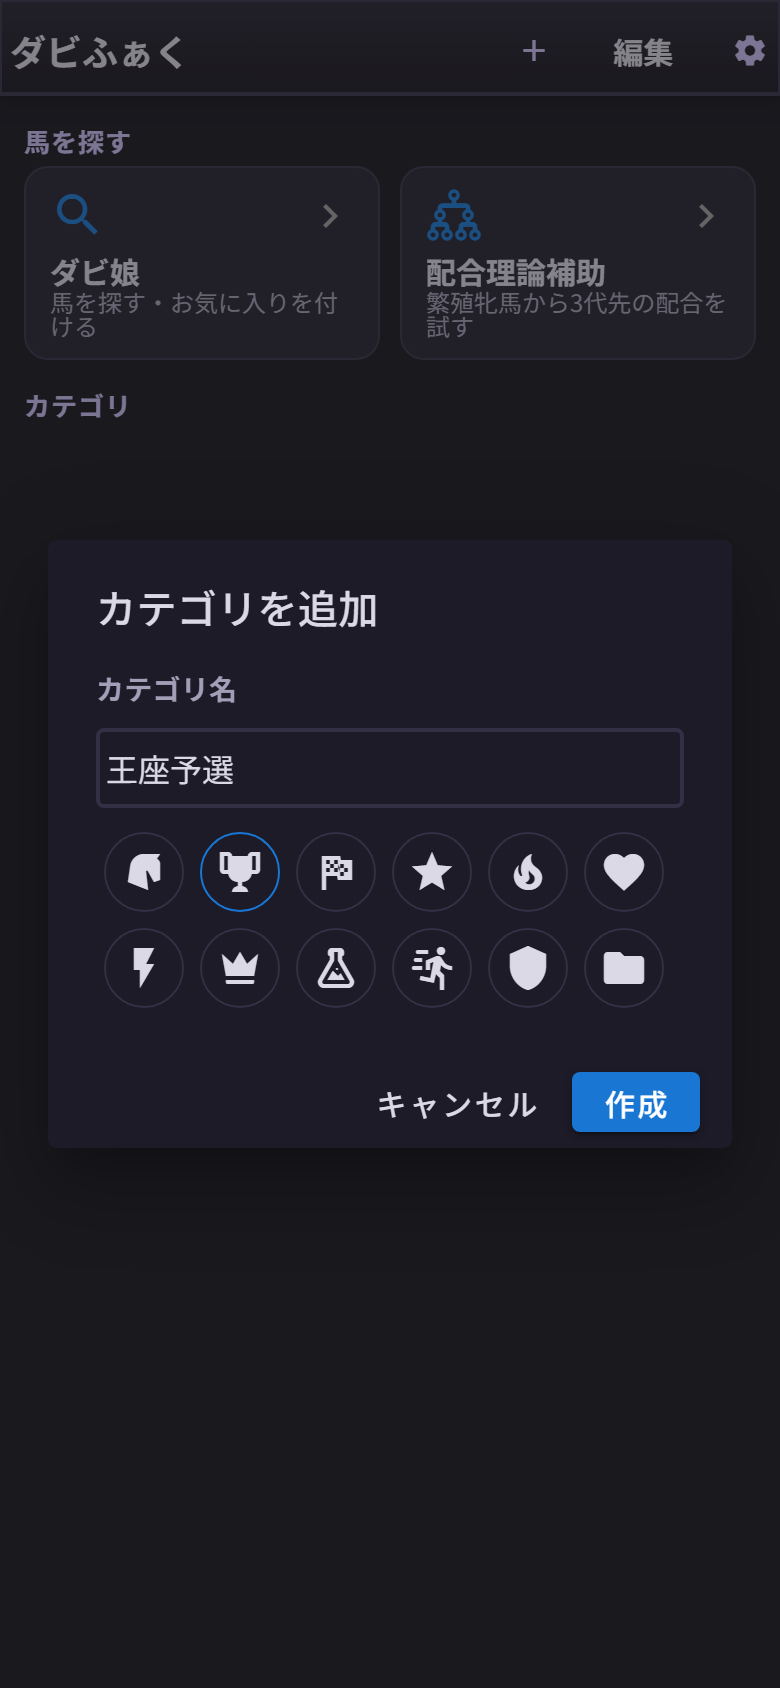
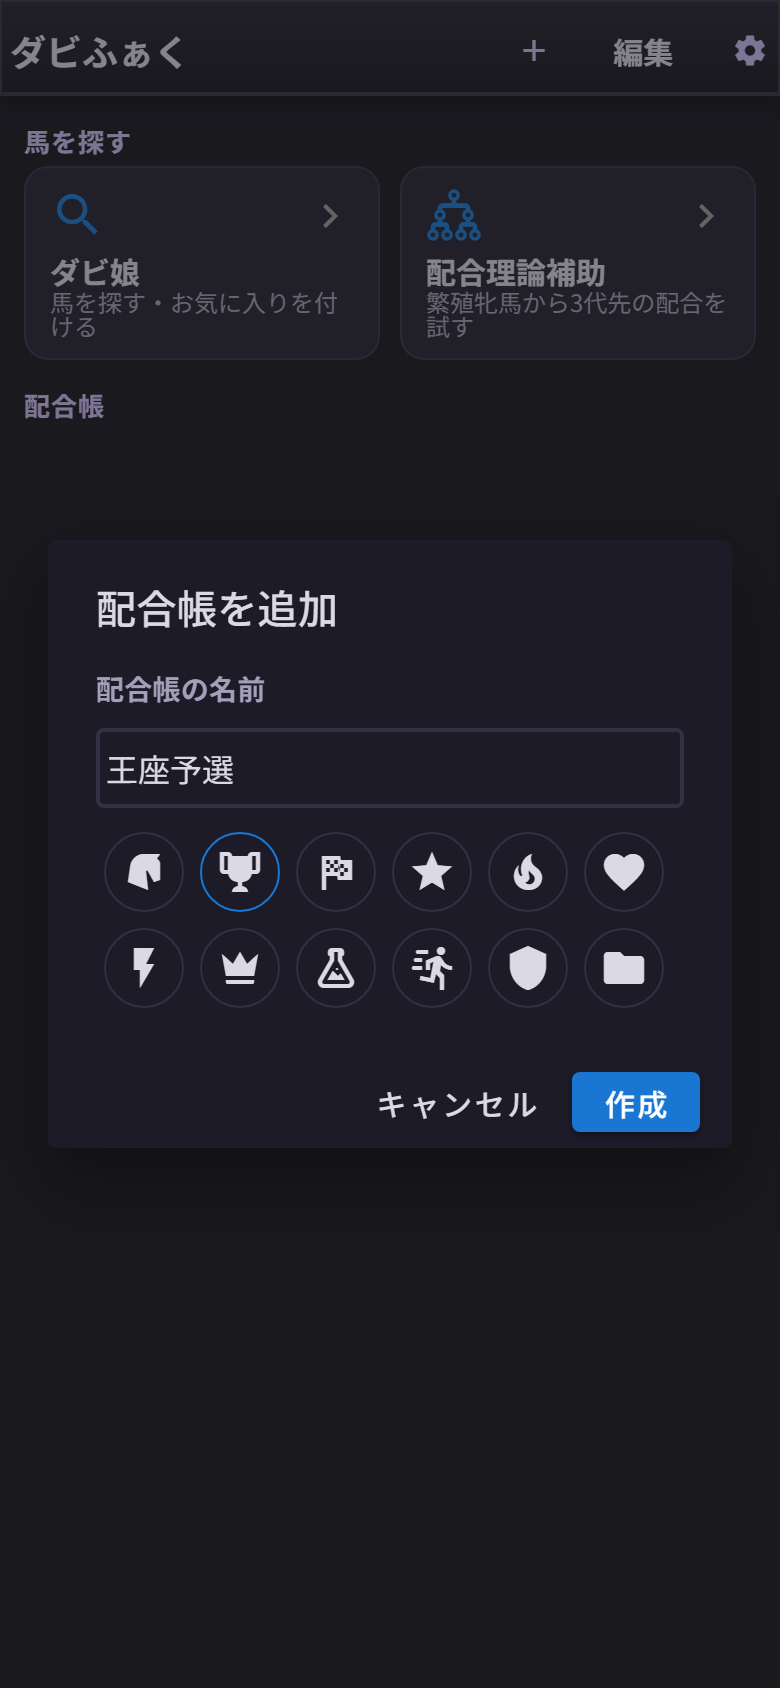
取扱説明書の「カテゴリ」を「配合帳」、「作業枠」を「配合」に揃える
アプリ側の呼び替え（feature/rename-category-to-haigocho）に合わせて、
本文・見出し・画像の代替テキストを書き直す。配合帳の名前の入力例にも触れる。
「配合の保存」と紛れやすい箇所は「配合タブ」と書く。
ホーム（空・カード・編集モード）と配合帳の追加ダイアログのスクショは
新しい文言の画面で撮り直した。

diff --git a/note-article/chapters/02-home-category.md b/note-article/chapters/02-home-category.md
@@ -1,11 +1,11 @@
-# 第2章 ホーム画面とカテゴリ ── まずは部屋を作ろう
+# 第2章 ホーム画面と配合帳 ── まずは部屋を作ろう
 
 統合版を初めて開くと、こんなホーム画面が出迎えてくれます。
 
 ![ホーム画面(空の状態)](../images/01-home-empty.png)
 
 まだ何もない、キックオフ前の静けさ。
-画面は上下2つに分かれていて、上が **「馬を探す」**、下が **「カテゴリ」** です。
+画面は上下2つに分かれていて、上が **「馬を探す」**、下が **「配合帳」** です。
 
 ## 上段「馬を探す」の2枚のカード
 
@@ -14,21 +14,21 @@
 
 どちらも血統表とは別の独立した画面で、ここからいつでも行き来できます。
 
-## 下段「カテゴリ」を作る
+## 下段「配合帳」を作る
 
-中央の **「＋ カテゴリを追加」**(2回目からは右上の「＋」)を押してみましょう。ちなみに右上の歯車マークは設定画面への入口です(第13章で)。
+中央の **「＋ 配合帳を追加」**(2回目からは右上の「＋」)を押してみましょう。ちなみに右上の歯車マークは設定画面への入口です(第13章で)。
 
-![カテゴリ追加ダイアログ](../images/02-category-dialog.png)
+![配合帳の追加ダイアログ](../images/02-category-dialog.png)
 
-カテゴリ名(12文字まで)を入力して、12種類のアイコンから好きなものを選びます。
+**配合帳の名前**(12文字まで)を入力して、12種類のアイコンから好きなものを選びます。入力欄には「例：ディープ産駒用、凱旋門賞狙い」と出ているので、何のための配合をまとめるのかで名前を付けると、あとで迷いません。
 私は「王座予選」という名前にして、トロフィーのアイコンを選びました。優勝する気しかないので。
 
-**「作成」** を押すと、作業枠が1つ用意された状態で、そのままカテゴリの中に入ります。
+**「作成」** を押すと、配合が1つ用意された状態で、そのまま配合帳の中に入ります。
 
 ## 以前から使っていた方へ
 
-統合版に切り替わった最初の起動時、それまでの検討内容があった場合は、**「既存データ」というカテゴリが自動で作られて、その中にそのまま引き継がれています**。データが消えることはないので、安心してくださいね。むしろ「あ、私の配合、個室をもらえたんだ」くらいの気持ちでいてください(笑)。
+統合版に切り替わった最初の起動時、それまでの検討内容があった場合は、**「既存データ」という配合帳が自動で作られて、その中にそのまま引き継がれています**。データが消えることはないので、安心してくださいね。むしろ「あ、私の配合、個室をもらえたんだ」くらいの気持ちでいてください(笑)。
 
 ## 次に開いたときは
 
-2回目以降にアプリを開くと、ホームではなく **前回開いていた画面** に直行します。カテゴリで作業していたなら、そのカテゴリの前回の作業枠へ。ダビ娘や配合理論補助を開いたまま閉じたなら、その画面へ。「アプリを開く=即、作業再開」。ロッカールームに寄らずピッチに直行するタイプです。ホームに戻りたいときは、画面左上の「←」からどうぞ(第12章で詳しく)。
+2回目以降にアプリを開くと、ホームではなく **前回開いていた画面** に直行します。配合帳で作業していたなら、その配合帳で前回開いていた配合へ。ダビ娘や配合理論補助を開いたまま閉じたなら、その画面へ。「アプリを開く=即、作業再開」。ロッカールームに寄らずピッチに直行するタイプです。ホームに戻りたいときは、画面左上の「←」からどうぞ(第12章で詳しく)。

diff --git a/note-article/chapters/11-workspace.md b/note-article/chapters/11-workspace.md
@@ -1,30 +1,30 @@
-# 第11章 作業枠タブ ── プランA・B・Cを並べて悩む幸せ
+# 第11章 配合タブ ── プランA・B・Cを並べて悩む幸せ
 
 ここが統合版のいちばんの推しポイントです。
 
-画面上部のタブの **「＋」** を押すと、新しい作業枠が追加されて、まっさらな血統表が開きます。
+画面上部のタブの **「＋」** を押すと、新しい配合が追加されて、まっさらな血統表が開きます。
 
-![作業枠2を追加した状態](../images/21-workspace-added.png)
+![配合2を追加した状態](../images/21-workspace-added.png)
 
 タブが「1」「2」と並びました。今は「2」が開いていて、中身は空っぽ。ここに別の配合プランを組んでいけばOKです。
 
 そして **「1」のタブをタップすると──**
 
-![作業枠1に戻ると配合が復元される](../images/22-workspace-restored.png)
+![配合1に戻ると血統表が復元される](../images/22-workspace-restored.png)
 
 さっきのキタサンブラック×エアグルーヴが、そっくりそのまま帰ってきました!
 血統表も、ニトロの集計も、メモも、手動のクロス指定も、ぜんぶ一緒に。
 
 ## 切り替えのしくみ(ざっくり)
 
-タブを切り替える瞬間に「今の作業枠を保存 → 切り替え先の作業枠を復元」を自動でやってくれています。だから**保存ボタンを押す必要は一切ありません**。切り替え中はタブが一瞬押せなくなりますが、それは保存中の合図なので、慌てずに。
+タブを切り替える瞬間に「今の配合を保存 → 切り替え先の配合を復元」を自動でやってくれています。だから**保存ボタンを押す必要は一切ありません**。切り替え中はタブが一瞬押せなくなりますが、それは保存中の合図なので、慌てずに。
 
 「プラン1とプラン2、ニトロの伸びはどっちが上だろう?」がタブのタップだけで見比べられる。4-3-3と4-4-2を並べて悩む監督の気持ち、味わえます。
 
-## 作業枠の削除
+## 配合の削除
 
-いらなくなった作業枠は、タブ右端の **「編集」** を押すと各タブに「×」が出るので、そこから削除できます。確認ダイアログで「保存されている配合の状態(血統表・メモ・クロス指定)も削除されます」と教えてくれます。
+いらなくなった配合は、タブ右端の **「編集」** を押すと各タブに「×」が出るので、そこから削除できます。確認ダイアログで「この配合の血統表・メモ・クロス指定も削除されます」と教えてくれます。
 
-- 削除すると、残った作業枠の番号は自動で振り直されます(3枠から2番を消すと、3番だった枠が新しい2番に)
-- **最後の1枠は削除できません**(削除ボタン自体が出ません)
-- 第10章の「配合の保存」で取っておいた配合は、作業枠を消しても無事です
+- 削除すると、残った配合の番号は自動で振り直されます(3つから2番を消すと、3番だったタブが新しい2番に)
+- **最後の1つは削除できません**(削除ボタン自体が出ません)
+- 第10章の「配合の保存」で取っておいた配合は、タブを消しても無事です

diff --git a/note-article/chapters/12-home-edit.md b/note-article/chapters/12-home-edit.md
@@ -1,11 +1,11 @@
 # 第12章 ホーム画面を育てよう
 
-作業枠タブの左端の **「←」** でホームに戻れます(このときも今の作業枠は自動保存されます)。
-カテゴリをいくつか作ると、ホームはこんな感じになっていきます。
+配合タブの左端の **「←」** でホームに戻れます(このときも今の配合は自動保存されます)。
+配合帳をいくつか作ると、ホームはこんな感じになっていきます。
 
-![カテゴリが並んだホーム画面](../images/23-home-cards.png)
+![配合帳が並んだホーム画面](../images/23-home-cards.png)
 
-カードには作業枠の数も表示されるので、「王座予選は2プラン検討中だな」とひと目でわかります。スマホは2列、タブレットは3列、PCは4列で並びます。
+カードには配合の数も表示されるので、「王座予選は2プラン検討中だな」とひと目でわかります。スマホは2列、タブレットは3列、PCは4列で並びます。
 
 ## 編集モード
 
@@ -14,7 +14,7 @@
 ![ホームの編集モード](../images/24-home-edit.png)
 
 - **カードをタップ** …… 名前とアイコンの変更
-- **赤い「×」** …… カテゴリの削除
+- **赤い「×」** …… 配合帳の削除
 - **「∧」「∨」** …… 表示順の並び替え
 
 終わったら「完了」で通常モードへ。
@@ -22,6 +22,6 @@
 ## 削除だけは、レッドカード級の慎重さで
 
 ひとつだけ、監督としての注意事項です。
-**カテゴリを削除すると、その中の作業枠と検討内容(血統表・メモ・クロス指定)もまとめて消えます**。確認ダイアログは出ますが、**取り消しはできません**。
+**配合帳を削除すると、その中の配合(血統表・メモ・クロス指定)もまとめて消えます**。確認ダイアログは出ますが、**取り消しはできません**。
 
-繰り返しになりますが、「配合の保存」で保存した配合と☆の馬、そしてダビ娘で付けた❤のお気に入りは共有の財産なので、カテゴリを消しても残ります。「消える前に、残したいプランは配合保存へ」——これを合言葉にしてください。
+繰り返しになりますが、「配合の保存」で保存した配合と☆の馬、そしてダビ娘で付けた❤のお気に入りは共有の財産なので、配合帳を消しても残ります。「消える前に、残したいプランは配合保存へ」——これを合言葉にしてください。

diff --git a/note-article/chapters/10-save-restore.md b/note-article/chapters/10-save-restore.md
@@ -27,17 +27,17 @@
 
 ## 復元する
 
-リストから配合を選んで **「復元する」** を押すと、その配合が今開いている作業枠に展開されます。**「削除する」** で保存済みリストからの削除もできます。保存済みの配合は **最新15件** までリストに並びます。
+リストから配合を選んで **「復元する」** を押すと、その配合が今開いている配合タブに展開されます。**「削除する」** で保存済みリストからの削除もできます。保存済みの配合は **最新15件** までリストに並びます。
 
-削除するときは「○○の選択肢からも外れます」という確認が出ます。その馬を使っている作業枠は、次から選び直せなくなるという意味なので、ここは落ち着いて読んでからどうぞ。
+削除するときは「○○の選択肢からも外れます」という確認が出ます。その馬を使っている配合は、次から選び直せなくなるという意味なので、ここは落ち着いて読んでからどうぞ。
 
 昔のバージョンで保存した配合が残っている場合は、「配合」バッジ付きで表示されます。こちらは復元専用で、馬としては検索に出ません。
 
-## 作業枠との使い分け
+## 配合タブとの使い分け
 
-「作業枠があるなら、保存機能はいらないのでは?」と思った方、鋭い。イメージはこうです。
+「配合タブがあるなら、保存機能はいらないのでは?」と思った方、鋭い。イメージはこうです。
 
-- **作業枠** …… 今まさに動かしている作戦ボード。書いたそばから自動保存
+- **配合タブ** …… 今まさに動かしている作戦ボード。書いたそばから自動保存
 - **配合の保存** …… 完成した作戦を清書して、**選手として登録までしておく**永久保存版
 
-そして大事なポイント。保存した配合(と☆の馬)は、**カテゴリや作業枠をまたいだ共有の財産**です。どのカテゴリのどの作業枠からでも呼び出せますし、カテゴリを削除しても消えません。
+そして大事なポイント。保存した配合(と☆の馬)は、**配合帳や配合タブをまたいだ共有の財産**です。どの配合帳のどのタブからでも呼び出せますし、配合帳を削除しても消えません。

diff --git a/note-article/chapters/00-hajimeni.md b/note-article/chapters/00-hajimeni.md
@@ -8,12 +8,12 @@
 ……これ、頭の中だけで組み立てるのは正直かなり大変で。試合中に監督が紙のボードで選手を動かすように、配合にも「作戦ボード」が欲しくなります。
 
 その作戦ボードが、今回ご紹介する **「ダビふぁく」** です。
-**統合版** になって「カテゴリ」と「作業枠」という仕組みが加わり、そこへさらに **馬を探す「ダビ娘」** と、**繁殖牝馬から3代先まで試せる「配合理論補助」** が合流しました。画面もまるごと暗い色に生まれ変わっています。初めての方でも迷わないように、チャプターごとに分けてじっくり説明していきますね。
+**統合版** になって「配合帳」と「配合」という仕組みが加わり、そこへさらに **馬を探す「ダビ娘」** と、**繁殖牝馬から3代先まで試せる「配合理論補助」** が合流しました。画面もまるごと暗い色に生まれ変わっています。初めての方でも迷わないように、チャプターごとに分けてじっくり説明していきますね。
 
 ## 目次
 
 - 第1章 ダビふぁくって、なに?
-- 第2章 ホーム画面とカテゴリ ── まずは部屋を作ろう
+- 第2章 ホーム画面と配合帳 ── まずは部屋を作ろう
 - 第3章 血統表に馬を置いてみよう ── 検索とバッジの読み方
 - 第4章 ダビ娘で探す ── 条件検索とお気に入り
 - 第5章 集計ヘッダーの読み方 ── ニトロ・クロス・理論・危険な配合
@@ -22,7 +22,7 @@
 - 第8章 子系統とメモ ── ボードの裏面と、系統サマリー・相性
 - 第9章 ハートのボタンと★の馬
 - 第10章 配合の保存・復元 ── 生まれる仔を「馬」として残す
-- 第11章 作業枠タブ ── プランA・B・Cを並べて悩む幸せ
+- 第11章 配合タブ ── プランA・B・Cを並べて悩む幸せ
 - 第12章 ホーム画面を育てよう
 - 第13章 設定画面 ── エディット種牡馬・表示テーマ・子系統カラー
 - 第14章 よくある質問と、おわりに

diff --git a/note-article/chapters/01-dabifaku-toha.md b/note-article/chapters/01-dabifaku-toha.md
@@ -15,14 +15,14 @@
 
 これまでのダビふぁくは、いわば「1面だけの作戦ボード」でした。別の配合を考え始めると、前の検討内容は消してしまうしかなかったんです。統合版では、ここが大きく変わりました。
 
-1. **ホーム画面に「カテゴリ」を作れるように**
+1. **ホーム画面に「配合帳」を作れるように**
    「王座予選」「スタスタ配合」「肌馬さがし」……検討テーマごとに部屋を分けられます。リーグ戦とカップ戦で別のメンバー表を用意するイメージですね。
 
-2. **カテゴリの中に「作業枠」を複数持てるように**
-   1つのカテゴリの中で、配合プランA・プランB・プランC……をタブで切り替えながら比較できます。スタメン候補を並べて悩む、あの幸せな時間です。
+2. **配合帳の中に「配合」を複数持てるように**
+   1冊の配合帳の中で、配合プランA・プランB・プランC……をタブで切り替えながら比較できます。スタメン候補を並べて悩む、あの幸せな時間です。
 
 3. **ぜんぶ自動保存**
-   保存ボタンはありません。馬を選んだ瞬間、メモを書いた瞬間に、開いている作業枠へ自動で保存されます。アプリを閉じても、次に開いたときは前回の続きから。これが本当にありがたい……!
+   保存ボタンはありません。馬を選んだ瞬間、メモを書いた瞬間に、開いている配合へ自動で保存されます。アプリを閉じても、次に開いたときは前回の続きから。これが本当にありがたい……!
 
 ## そして、今回の大型アップデートで
 

diff --git a/note-article/chapters/07-assist.md b/note-article/chapters/07-assist.md
@@ -49,4 +49,4 @@ STEP 2 の繁殖牝馬の欄には **「1代目配合の繁殖牝馬」** と **
 
 右上の **「画像を保存」** で、3代ぶんの画面を丸ごと1枚の画像にできます。スクロールで隠れている部分まで全部入ります。
 
-この機能、あると助かる理由がありまして。**配合理論補助の計画は、画面を出ると消えます**。血統表の作業枠と違って自動保存はされないので、「この組み立て、あとで見返したい」と思ったら画像を保存しておくのがいちばん確実です。ホワイトボードの前でスマホを構える監督、わりといますよね。あれです。
+この機能、あると助かる理由がありまして。**配合理論補助の計画は、画面を出ると消えます**。血統表の配合タブと違って自動保存はされないので、「この組み立て、あとで見返したい」と思ったら画像を保存しておくのがいちばん確実です。ホワイトボードの前でスマホを構える監督、わりといますよね。あれです。

diff --git a/note-article/announcements/service-end-and-relaunch.md b/note-article/announcements/service-end-and-relaunch.md
@@ -58,7 +58,7 @@ https://love-dabimas.github.io/dabimas-factor/
 
 一区切りにするのは、今のダビふぁくです。やるべきことをやり切ったからこそ、同じ形の上に継ぎ足すのはやめて、ゼロから組み直しました。それが統合版のダビふぁくです。
 
-カテゴリで検討テーマごとに部屋を分けられて、作業枠でプランA・B・Cをタブに並べられて、保存ボタンを押さなくても勝手に保存されます。……自分で書いていて、また開きたくなってきました(笑)。
+配合帳で検討テーマごとに部屋を分けられて、プランA・B・Cの配合をタブに並べられて、保存ボタンを押さなくても勝手に保存されます。……自分で書いていて、また開きたくなってきました(笑)。
 
 新しいダビふぁくは◯月◯日から。使い方は別の記事にまとめました。
 

diff --git a/note-article/chapters/03-pedigree.md b/note-article/chapters/03-pedigree.md
@@ -1,12 +1,12 @@
 # 第3章 血統表に馬を置いてみよう ── 検索とバッジの読み方
 
-カテゴリを開くと、見慣れた(初めての方は今日から見慣れる)血統表の画面です。
+配合帳を開くと、見慣れた(初めての方は今日から見慣れる)血統表の画面です。
 
-![カテゴリ画面(作業枠タブと血統表)](../images/03-category-screen.png)
+![配合帳の画面(配合タブと血統表)](../images/03-category-screen.png)
 
 画面の上から順に、
 
-- **作業枠タブ**(「← 王座予選 [1] ＋ 編集」の段)
+- **配合タブ**(「← 王座予選 [1] ＋ 編集」の段)
 - **集計ヘッダー**(ニトロとクロスの数字が並ぶ段。読み方は第5章で)
 - **血統表**(上のカードが父側=種牡馬、下のカードが母側=繁殖牝馬)
 

diff --git a/note-article/chapters/08-kokeitou-memo.md b/note-article/chapters/08-kokeitou-memo.md
@@ -32,7 +32,7 @@
 - 「次はここを○○に差し替える」
 - 「この枠は因子○持ちを探す」
 
-のような検討途中の思考を置いておくのにぴったり。メモももちろん**自動保存**で、作業枠ごとに残ります。
+のような検討途中の思考を置いておくのにぴったり。メモももちろん**自動保存**で、配合タブごとに残ります。
 
 ## 元の画面に戻る
 
